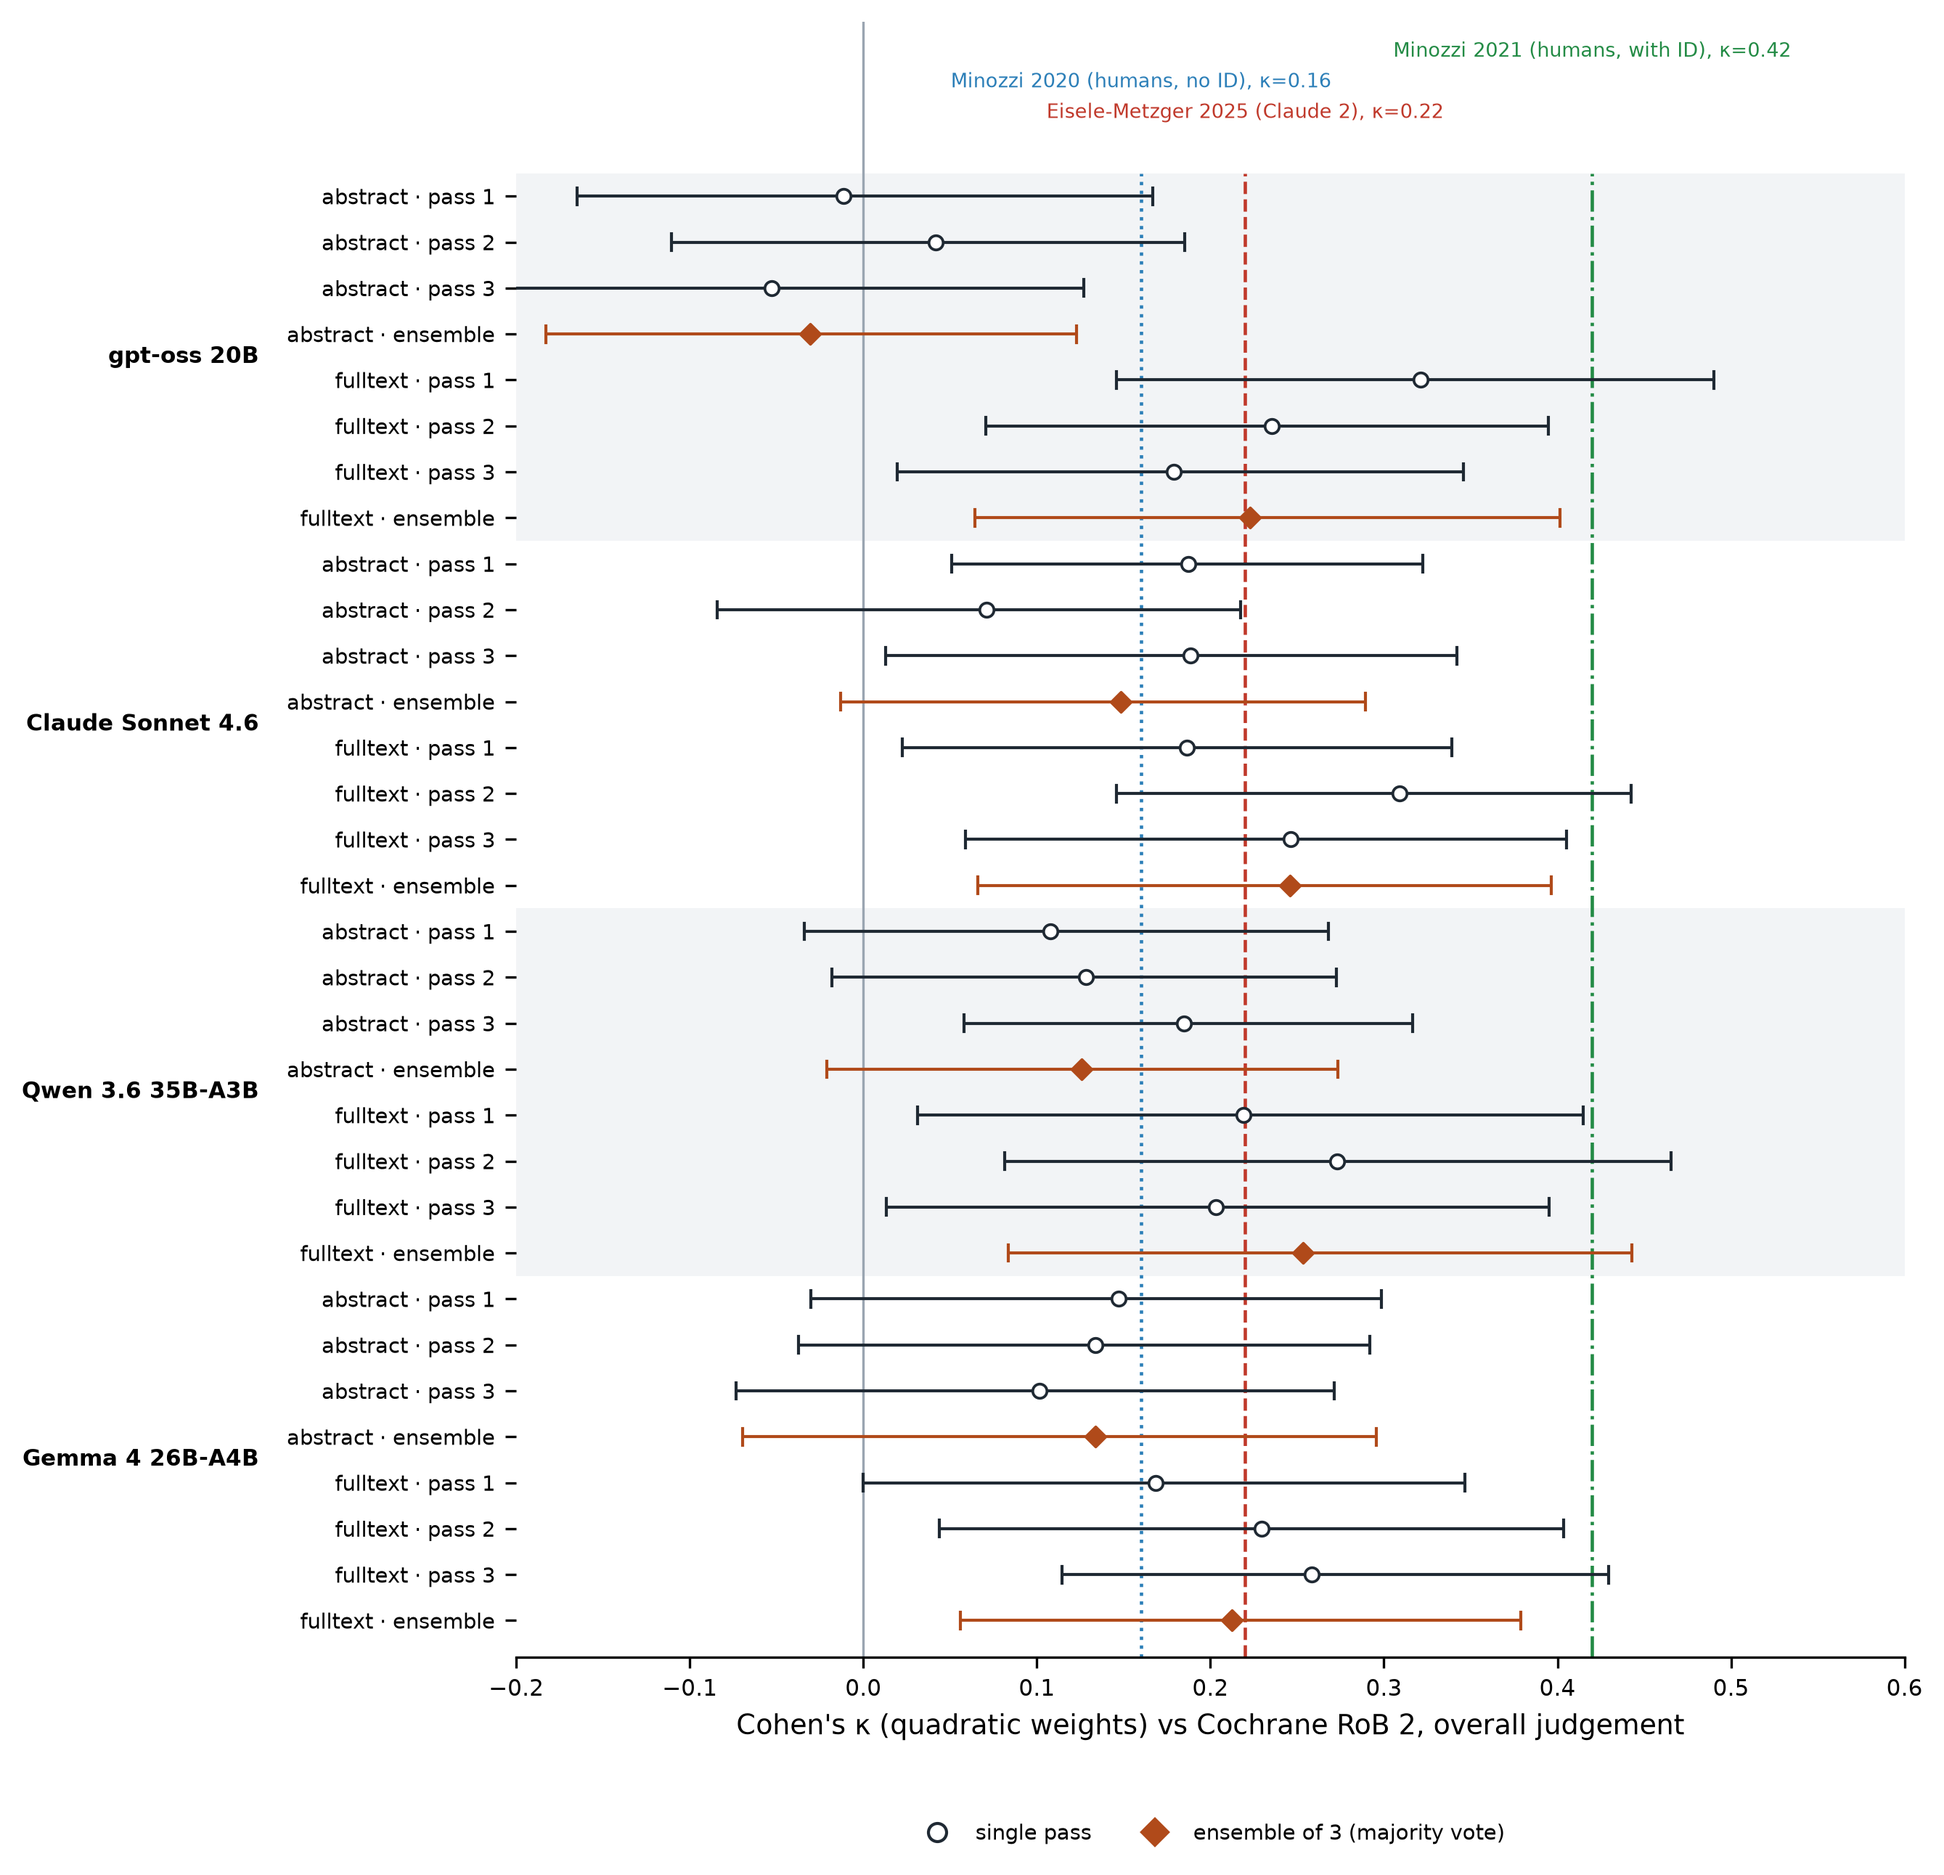
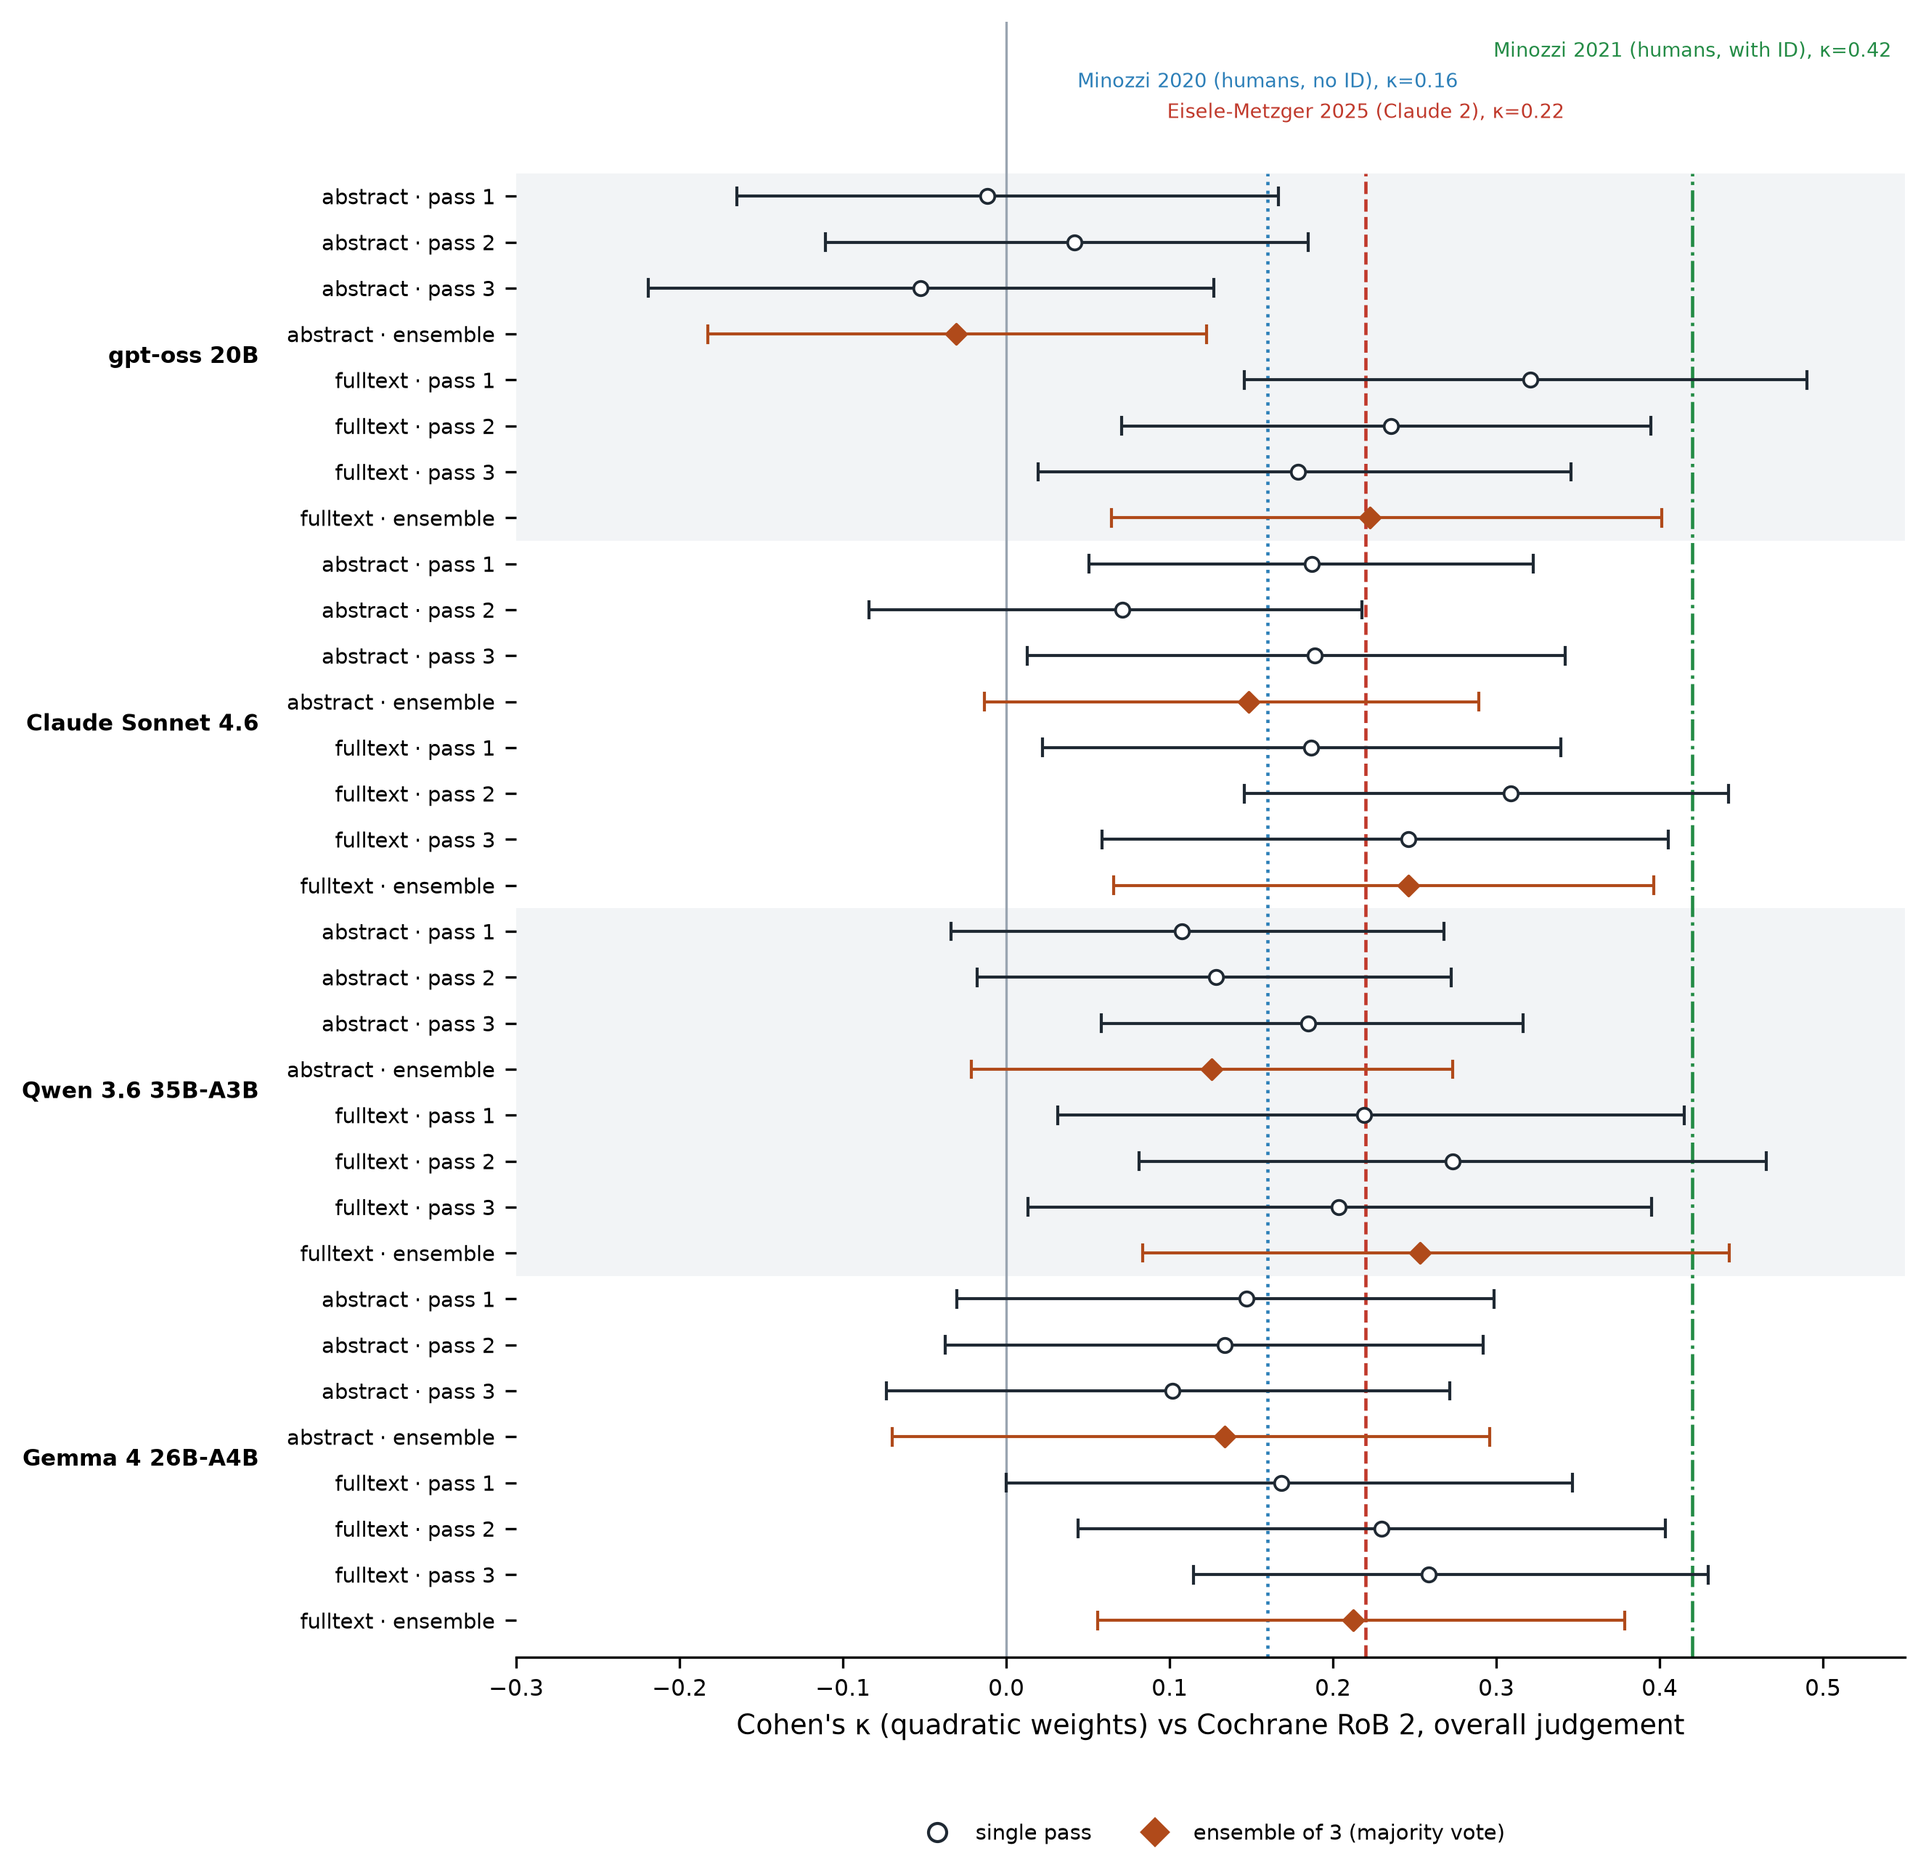
fix(figures): widen Figure 1 X_LIMITS so no CI is clipped at the spine
gpt-oss 20B (abstract, pass 3) has a κ_quad CI of [-0.2193, 0.1270], but
X_LIMITS=(-0.2, 0.55) clipped its lower bound at the left spine — silently
understating that interval's uncertainty in a manuscript figure.

Widen X_LIMITS to (-0.3, 0.55), comfortably covering the observed range
[-0.2193, 0.4901]. Add a render_figure guard that raises ValueError naming
any point whose k_quad/CI bound falls outside X_LIMITS, so a future data
update can't silently clip an error bar again. Pin the guard with a test.

diff --git a/studies/eisele_metzger_replication/figures/figure1_forest.py b/studies/eisele_metzger_replication/figures/figure1_forest.py
@@ -37,7 +37,7 @@ ROW_HEIGHT_IN = 0.24
 FIG_MIN_HEIGHT_IN = 4.0
 FIG_TOP_MARGIN_IN = 1.0
 DPI = 300
-X_LIMITS = (-0.20, 0.55)
+X_LIMITS = (-0.30, 0.55)
 X_TICK_STEP = 0.1
 
 SINGLE_PASS_MARKER = "o"
@@ -106,6 +106,37 @@ def _reference_style(label: str) -> dict | None:
     return None
 
 
+def _check_points_within_limits(points: list[ForestPoint],
+                                 references: list[ForestPoint]) -> None:
+    """Raise loudly if any point's κ_quad or CI bound falls outside X_LIMITS.
+
+    A bound outside the axes gets silently clipped at the spine by
+    matplotlib — the error bar (or reference line) still renders, just
+    truncated, with no visual or programmatic signal that data was cut off.
+    That is exactly the kind of silent data misrepresentation this project's
+    error-handling rule forbids, so it is checked and raised here rather than
+    left to be caught (or missed) by eyeballing the figure.
+    """
+    x_lo, x_hi = X_LIMITS
+    offenders: list[str] = []
+    for point in (*points, *references):
+        values = [v for v in (point.k_quad, point.ci_lo, point.ci_hi)
+                  if v is not None]
+        out_of_range = [v for v in values if v < x_lo or v > x_hi]
+        if out_of_range:
+            offenders.append(
+                f"{point.label!r} (observed {min(out_of_range):.4f} to "
+                f"{max(out_of_range):.4f})"
+            )
+    if offenders:
+        raise ValueError(
+            f"Forest plot data falls outside X_LIMITS {X_LIMITS}: "
+            f"{'; '.join(offenders)}. Widen X_LIMITS in figure1_forest.py "
+            "to at least the observed data range so no error bar or "
+            "reference line is silently clipped at the axes."
+        )
+
+
 def render_figure(points: list[ForestPoint], references: list[ForestPoint],
                   output_dir: Path) -> list[Path]:
     """Draw the forest plot and write PDF + PNG. Returns the written paths.
@@ -120,6 +151,7 @@ def render_figure(points: list[ForestPoint], references: list[ForestPoint],
     if not points:
         raise ValueError("No plottable forest points — refusing to draw an "
                          "empty figure.")
+    _check_points_within_limits(points, references)
 
     n_rows = len(points)
     # Reserve headroom above the rows for the staggered reference-rule labels.

diff --git a/tests/test_figure1_forest.py b/tests/test_figure1_forest.py
@@ -57,3 +57,25 @@ def test_render_writes_pdf_and_png(tmp_path: Path) -> None:
     assert suffixes == [".pdf", ".png"]
     for path in written:
         assert path.exists() and path.stat().st_size > 0
+
+
+_CSV_OUT_OF_BOUNDS = """label,k_lin,k_quad,ci_lin_lo,ci_lin_hi,ci_quad_lo,ci_quad_hi,n,kind
+"gpt-oss 20B (abstract, pass 1)",0.03,0.01,-0.06,0.14,-0.07,0.16,78,single_pass
+"gpt-oss 20B (abstract, pass 3)",-0.05,-0.05,-0.30,0.20,-0.60,0.13,78,single_pass
+"""
+
+
+def test_render_raises_when_ci_exceeds_x_limits(tmp_path: Path) -> None:
+    """render_figure refuses to silently clip a CI bound outside X_LIMITS.
+
+    A point whose interval extends past the axes would otherwise render as
+    a silently truncated error bar — exactly the defect this guard exists
+    to prevent — so it must raise a ValueError naming the offending row
+    instead of drawing it.
+    """
+    csv_path = tmp_path / "forest_out_of_bounds.csv"
+    csv_path.write_text(_CSV_OUT_OF_BOUNDS, encoding="utf-8")
+    plotted, references = split_references(load_forest_points(csv_path))
+
+    with pytest.raises(ValueError, match="gpt-oss 20B \\(abstract, pass 3\\)"):
+        render_figure(order_for_plot(plotted), references, tmp_path)
